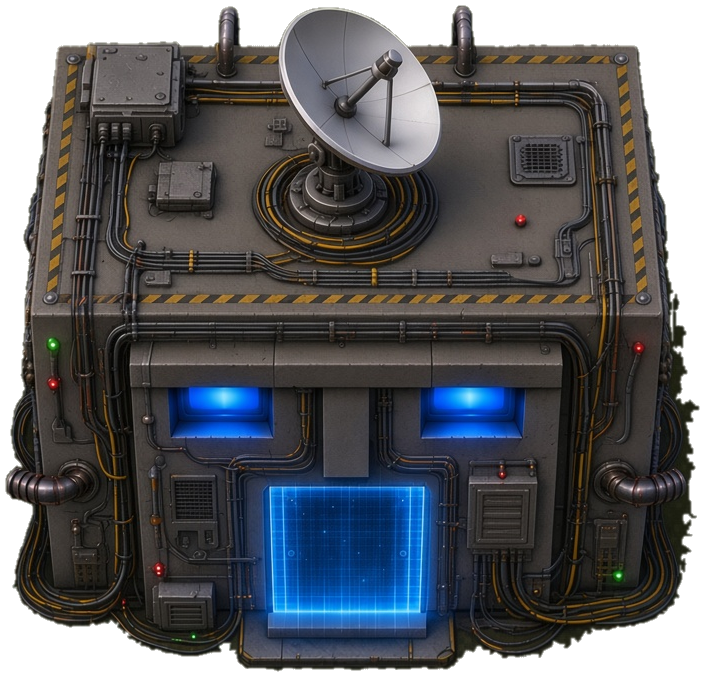
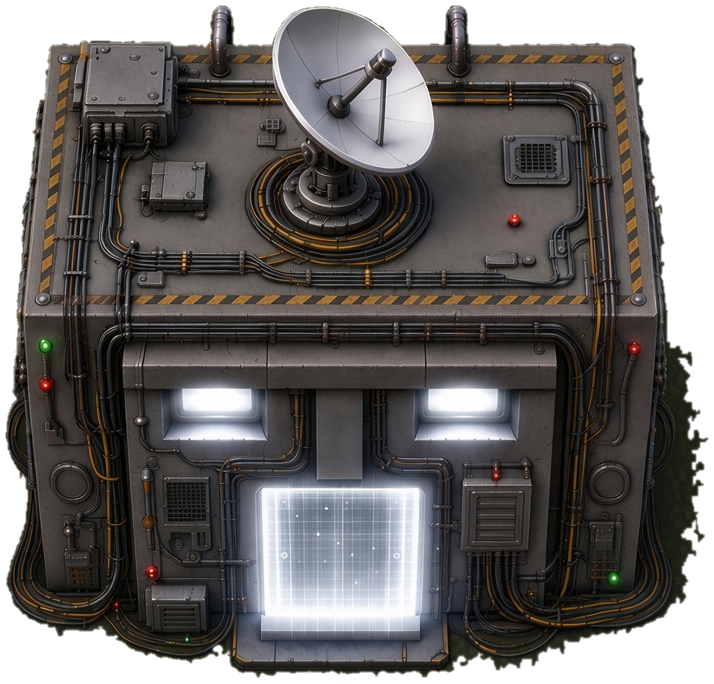
Replace the Silo sprites with the new reference cutouts.
Grass is removed only by flooding olive pixels in from the photo edges. The bunker, cables, vessels, and mist stay fully opaque, with a short feather on the outline.

diff --git a/src/game/siloArt.ts b/src/game/siloArt.ts
@@ -11,23 +11,23 @@ const cryoUrl = new URL('../assets/silo-cryo.png', import.meta.url).href
 
 const FOOT = 96
 /** Plain cutout height. Cryo uses this same scale, not its own width. */
-const SPRITE_H = 677
+const SPRITE_H = 684
 const DRAW_H = 118
 const SCALE = DRAW_H / SPRITE_H
 
 /** Door center in each cutout, so the two bunkers sit on the same tiles. */
-const PLAIN_DOOR = { x: 0.4884, y: 0.8202 }
-const CRYO_DOOR = { x: 0.4967, y: 0.8217 }
+const PLAIN_DOOR = { x: 0.477, y: 0.8278 }
+const CRYO_DOOR = { x: 0.5108, y: 0.8253 }
 /** Door anchor inside the footprint. The dish overflows above the tile. */
 const DOOR_OX = 48
 const DOOR_OY = 78
 
 /** Front pair fills first, then the back pair. Boxes are fractions of the cryo cutout. */
 const VESSELS: Array<{ x: number; y: number; w: number; h: number }> = [
-  { x: 0.0427, y: 0.5888, w: 0.1528, h: 0.284 },
-  { x: 0.8027, y: 0.5902, w: 0.1565, h: 0.287 },
-  { x: 0.0626, y: 0.2189, w: 0.1328, h: 0.2751 },
-  { x: 0.8036, y: 0.2101, w: 0.1366, h: 0.284 },
+  { x: 0.0504, y: 0.5827, w: 0.0998, h: 0.3704 },
+  { x: 0.8094, y: 0.5944, w: 0.1304, h: 0.2694 },
+  { x: 0.0647, y: 0.2152, w: 0.1034, h: 0.328 },
+  { x: 0.8067, y: 0.2225, w: 0.1394, h: 0.3177 },
 ]
 
 const WINDOW_COUNT = 8
